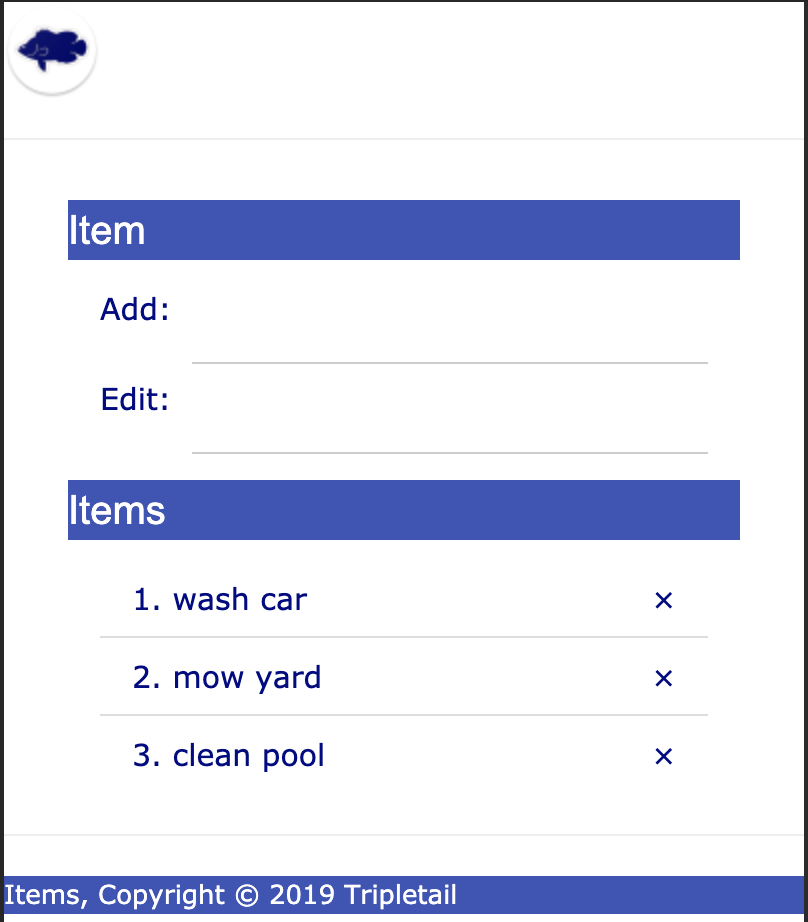
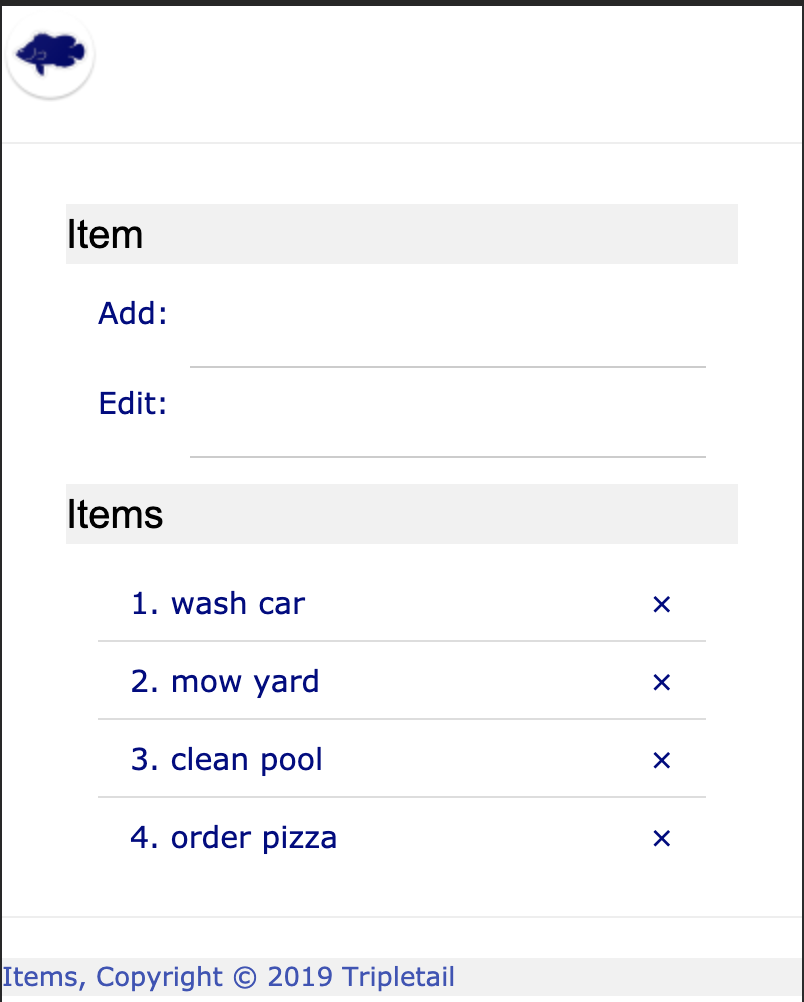
edited look and feel

diff --git a/src/main/resources/index.html b/src/main/resources/index.html
@@ -14,7 +14,7 @@
         <hr/>
         <div id="app" class="w3-container"></div>
         <hr/>
-        <p class="w3-indigo" style="font-size: 13px;">Items, Copyright &copy; 2019 Tripletail</p>
+        <p class="w3-light-grey w3-text-indigo" style="font-size: 13px;">Items, Copyright &copy; 2019 Tripletail</p>
         <script type="text/javascript" src="./target/scala-2.12/laminar-fastopt.js"></script>
         <script>App.init();</script>
     </body>
